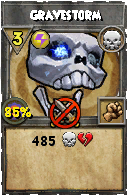
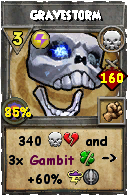
Added Death school Path B spells

diff --git a/app.js b/app.js
@@ -474,27 +474,46 @@ const offlineSchoolSpellNames = {
   ],
   Death: [
     "Dark Sprite",
+    "Dark Sprite A",
+    "Dark Sprite C",
     "Ghoul",
+    "Ghoul B",
+    "Ghoul C",
     "Dream Shield",
     "Banshee",
+    "Banshee B",
+    "Banshee C",
     "Vampire",
+    "Vampire B",
+    "Vampire C",
     "Dream Golem",
+    "Dream Golem B",
     "Feint",
     "Skeletal Pirate",
+    "Skeletal Pirate B",
+    "Skeletal Pirate C",
     "Doom and Gloom",
     "Deadzone",
     "Crimson Phantom",
     "Wraith",
+    "Wraith B",
+    "Wraith C",
     "Monster Mash",
+    "Monster Mash B", 
     "Putrefaction",
     "Contagion",
     "Scarecrow",
+    "Scarecrow B",
     "Skeletal Dragon",
+    "Skeletal Dragon B",
     "Jinn's Larceny",
     "Dr. Von's Monster",
+    "Dr. Von's Monster B",
     "Macabre Jinn",
     "Avenging Fossil",
+    "Avenging Fossil B",
     "King Artorius (Death)",
+    "King Artorius (Death) B",
     "Oni's Morbidity",
     "Doom Oni",
     "Infection",
@@ -510,18 +529,27 @@ const offlineSchoolSpellNames = {
     "Age of Reckoning",
     "Death Trap",
     "Deer Knight",
+    "Deer Knight B",
     "Headless Horseman",
+    "Headless Horseman B",
+    "Headless Horseman C",
     "Jacques Scratches!",
     "Kiiii-Yaaaa!",
+    "Kiiii-Yaaaa! B",
     "Lord of Night",
+    "Lord of Night B",
     "Monk of Mourning",
+    "Monk of Mourning A",
+    "Monk of Mourning C",
     "Pluto's Peril",
     "Ship of Fools",
+    "Ship of Fools B",
     "Deathblade",
     "Death Prism",
     "Sacrifice",
     "Curse",
     "Poison",
+    "Poison B",
     "Beguile",
     "Animate",
     "Plague",
@@ -532,16 +560,27 @@ const offlineSchoolSpellNames = {
     "Bad Juju",
     "Malduit",
     "Avenging Fossil",
+    "Avenging Fossil B",
     "Call of Khrulhu",
+    "Call of Khrulhu B",
     "Winged Sorrow",
+    "Winged Sorrow B",
     "Qismah's Curse",
+    "Qismah's Curse B",
     "Scion of Death",
+    "Scion of Death B",
     "Snack Attack",
+    "Snack Attack B",
     "Grim Reader",
+    "Grim Reader B",
     "Gravestorm",
+    "Gravestorm B",
     "Wobbegong Frenzy",
+    "Wobbegong Frenzy B",
     "Anubis",
+    "Anubis B",
     "Mortality",
+    "Mortality B",
     "Ash Trap",
     "Permafrost Trap",
     "Drowned Blade",
@@ -1078,7 +1117,101 @@ const fusionRecipes = {
       requires: ["Wheel of Fortune", "Dark Trickster"]
     }
   ],
-  Death: [],
+  Death: [
+    {
+      result: "Anubis' Bite",
+      requires: ["Anubis", "Deathblade"]
+    },
+    {
+      result: "Anubis' Grasp",
+      requires: ["Anubis", "Pathogen"]
+    },
+    {
+      result: "Pyre Dragon",
+      requires: ["Skeletal Dragon", "Helephant"]
+    },
+    {
+      result: "Grave Chill",
+      requires: ["Crimson Phantom", "Frost Beetle"]
+    },
+    {
+      result: "Clammy Ghoul",
+      requires: ["Ghoul", "Colossus"]
+    },
+    {
+      result: "Joltergeist",
+      requires: ["Crimson Phantom", "Kraken"]
+    },
+    {
+      result: "Bleak Forecast",
+      requires: ["Wraith", "Lightning Bats"]
+    },
+    {
+      result: "Bleh the Impaler",
+      requires: ["Vampire", "Blood Bat"]
+    },
+    {
+      result: "Green Blight",
+      requires: ["Banshee", "Centaur"]
+    },
+    {
+      result: "Venomous Creepers",
+      requires: ["Poison", "Leprechaun"]
+    },
+    {
+      result: "Desert Banshee",
+      requires: ["Banshee", "Scarab"]
+    },
+    {
+      result: "Skeletal Raider",
+      requires: ["Skeletal Pirate", "Locust Swarm"]
+    },
+    {
+      result: "From Beyond",
+      requires: ["Call of Khrulhu", "Dark Shepherd"]
+    },
+    {
+      result: "From Beyond B",
+      requires: ["Call of Khrulhu B", "Dark Shepherd"]
+    },
+    {
+      result: "Sorrow's Shadow",
+      requires: ["Winged Sorrow", "Dark Shepherd"]
+    },
+    {
+      result: "Sorrow's Shadow B",
+      requires: ["Winged Sorrow B", "Dark Shepherd"]
+    },
+    {
+      result: "Qismah's Wrath",
+      requires: ["Qismah's Curse", "Dark Shepherd"]
+    },
+    {
+      result: "Qismah's Wrath B",
+      requires: ["Qismah's Curse B", "Dark Shepherd"]
+    },
+    {
+      result: "Dark Hunger",
+      requires: ["Snack Attack", "Dark Shepherd"]
+    },
+    {
+      result: "Dark Hunger B",
+      requires: ["Snack Attack B", "Dark Shepherd"]
+    },
+    {
+      result: "Grim Irredeemer",
+      requires: ["Grim Reader", "Dark Shepherd"]
+    },
+    {
+      result: "Grim Irredeemer B",
+      requires: ["Grim Reader B", "Dark Shepherd"]
+    },
+    {
+      result: "Reverse-Mortality",
+      requires: ["Mortality", "Dark Shepherd"]
+    }
+
+  ],
   Ice: [],
   Life: [],
   Myth: [],
